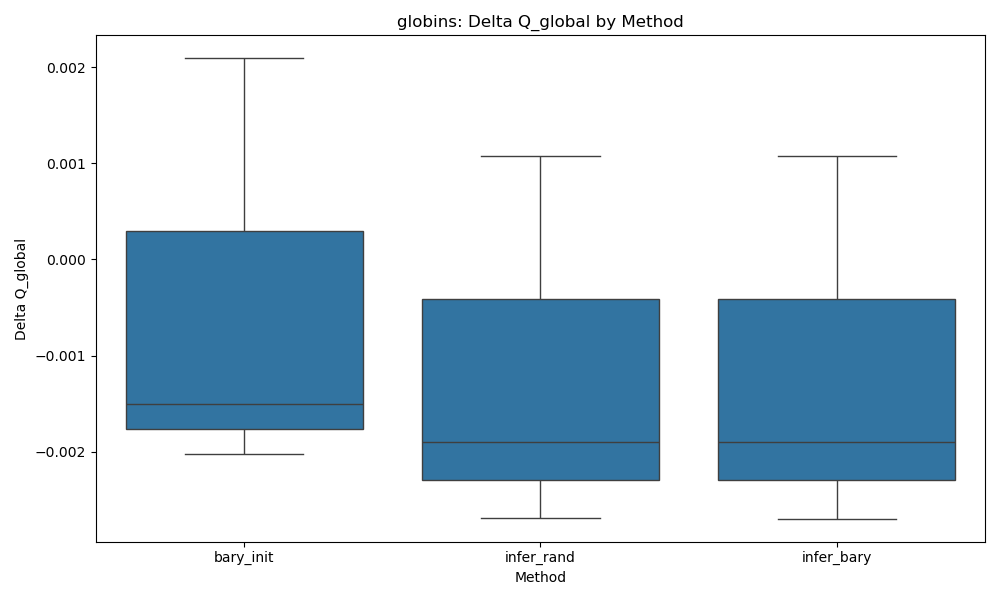
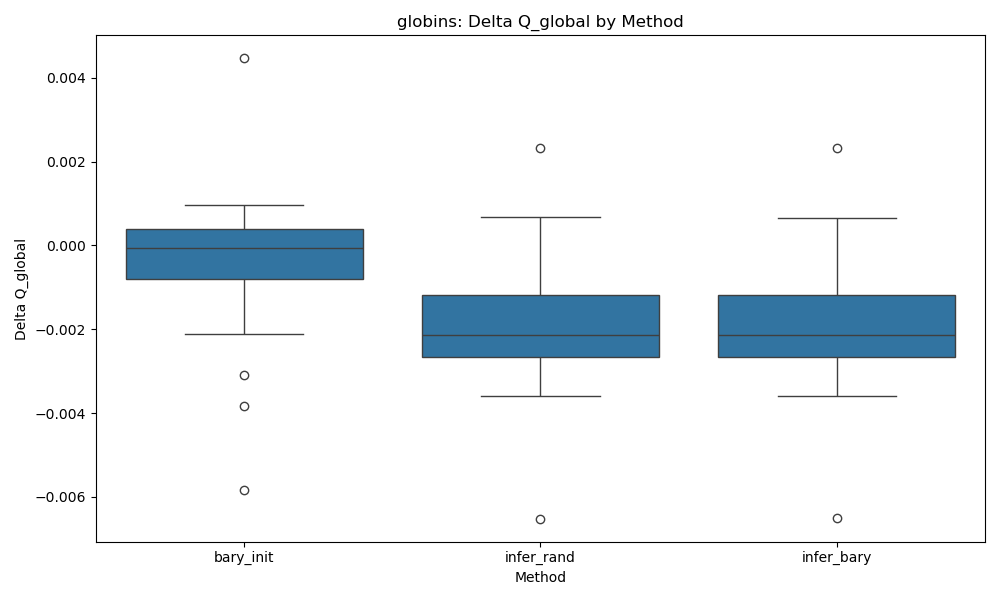
add LOO benchmark figures and summary report for all 3 datasets

diff --git a/benchmark_results/reports/leave_one_out_benchmark_summary.md b/benchmark_results/reports/leave_one_out_benchmark_summary.md
@@ -1,25 +1,43 @@
 # Leave-One-Out Benchmark Summary
 
 ## Datasets and Scope
-- **Datasets Analyzed**: globins
-- **Total Rows**: 9
+- **Datasets Analyzed**: globins, thioredoxins, kinases
+- **Total Rows**: 309
 - **Methods Evaluated**: bary_init, infer_rand, infer_bary
 
 ## Per-Method Performance Trends
 Summary statistics for `delta_qlocal`, `delta_qglobal`, and `insertion_time`.
 
-*Data not available*
+| method     |   delta_qlocal_mean |   delta_qlocal_median |   delta_qlocal_std |   delta_qlocal_min |   delta_qlocal_max |   delta_qglobal_mean |   delta_qglobal_median |   delta_qglobal_std |   delta_qglobal_min |   delta_qglobal_max |   insertion_time_mean |   insertion_time_median |   insertion_time_std |   insertion_time_min |   insertion_time_max |
+|:-----------|--------------------:|----------------------:|-------------------:|-------------------:|-------------------:|---------------------:|-----------------------:|--------------------:|--------------------:|--------------------:|----------------------:|------------------------:|---------------------:|---------------------:|---------------------:|
+| bary_init  |         -0.00147432 |           -0.00103273 |          0.0125508 |         -0.0630345 |          0.0462468 |          5.99328e-05 |            1.55571e-05 |          0.00210775 |         -0.00582866 |           0.0142141 |            0.00444283 |               0.0017216 |             0.01185  |            0.0004797 |            0.0854914 |
+| infer_bary |         -0.00445482 |           -0.00295427 |          0.0150782 |         -0.103053  |          0.0477279 |         -0.00142323  |           -0.0013218   |          0.00216197 |         -0.00651742 |           0.0101777 |            0.543417   |               0.381211  |             0.29686  |            0.283831  |            1.20835   |
+| infer_rand |         -0.00431654 |           -0.00295427 |          0.0150353 |         -0.103053  |          0.0477279 |         -0.00141855  |           -0.00130798  |          0.00216268 |         -0.00651926 |           0.0101768 |            0.55591    |               0.383442  |             0.295711 |            0.269738  |            1.32271   |
 
 ## Radial-Bin Trends
 Performance variations depending on the protein's radial position in the full map.
 
-*Data not available*
+| method     | radius_bin   |   delta_qlocal_mean |   delta_qlocal_median |   delta_qglobal_mean |   delta_qglobal_median |   insertion_time_mean |   insertion_time_median |
+|:-----------|:-------------|--------------------:|----------------------:|---------------------:|-----------------------:|----------------------:|------------------------:|
+| bary_init  | Center       |          0.00196336 |          -0.00103273  |          6.15132e-06 |           -0.000124515 |            0.00256917 |              0.0018249  |
+| bary_init  | Mid          |         -0.00467185 |          -0.00155224  |         -0.000170589 |            0.000103582 |            0.00548567 |              0.00178005 |
+| bary_init  | Periphery    |         -0.00181557 |          -0.000755688 |          0.000345818 |            3.04602e-05 |            0.00532875 |              0.0015707  |
+| infer_bary | Center       |         -0.00107493 |          -0.002128    |         -0.000661159 |           -0.000775956 |            0.543735   |              0.375608   |
+| infer_bary | Mid          |         -0.00991063 |          -0.00407299  |         -0.00210325  |           -0.00214924  |            0.573202   |              0.389377   |
+| infer_bary | Periphery    |         -0.00247831 |          -0.00284216  |         -0.00152768  |           -0.00153837  |            0.513305   |              0.382183   |
+| infer_rand | Center       |         -0.00107493 |          -0.002128    |         -0.00066119  |           -0.000775992 |            0.561243   |              0.382488   |
+| infer_rand | Mid          |         -0.00949064 |          -0.00395214  |         -0.00208662  |           -0.00214833  |            0.571646   |              0.391013   |
+| infer_rand | Periphery    |         -0.00247938 |          -0.00284216  |         -0.00153013  |           -0.0015391   |            0.534684   |              0.376094   |
 
 ## Correlation Results
 Spearman rank correlations between `full_map_radius` and delta metrics.
 
-*Data not available*
+| method     |   corr_radius_vs_delta_qlocal |   corr_radius_vs_delta_qglobal |
+|:-----------|------------------------------:|-------------------------------:|
+| bary_init  |                    -0.0144203 |                      0.0521021 |
+| infer_rand |                    -0.166696  |                     -0.433148  |
+| infer_bary |                    -0.159272  |                     -0.43026   |
 
 ## Outlier Summary
-A total of **0** outliers were identified using the Tukey 1.5 IQR rule for `delta_qlocal`.
+A total of **46** outliers were identified using the Tukey 1.5 IQR rule for `delta_qlocal`.
 Detailed overlapping matrices and raw outlier rows are available in the generated CSV files.
